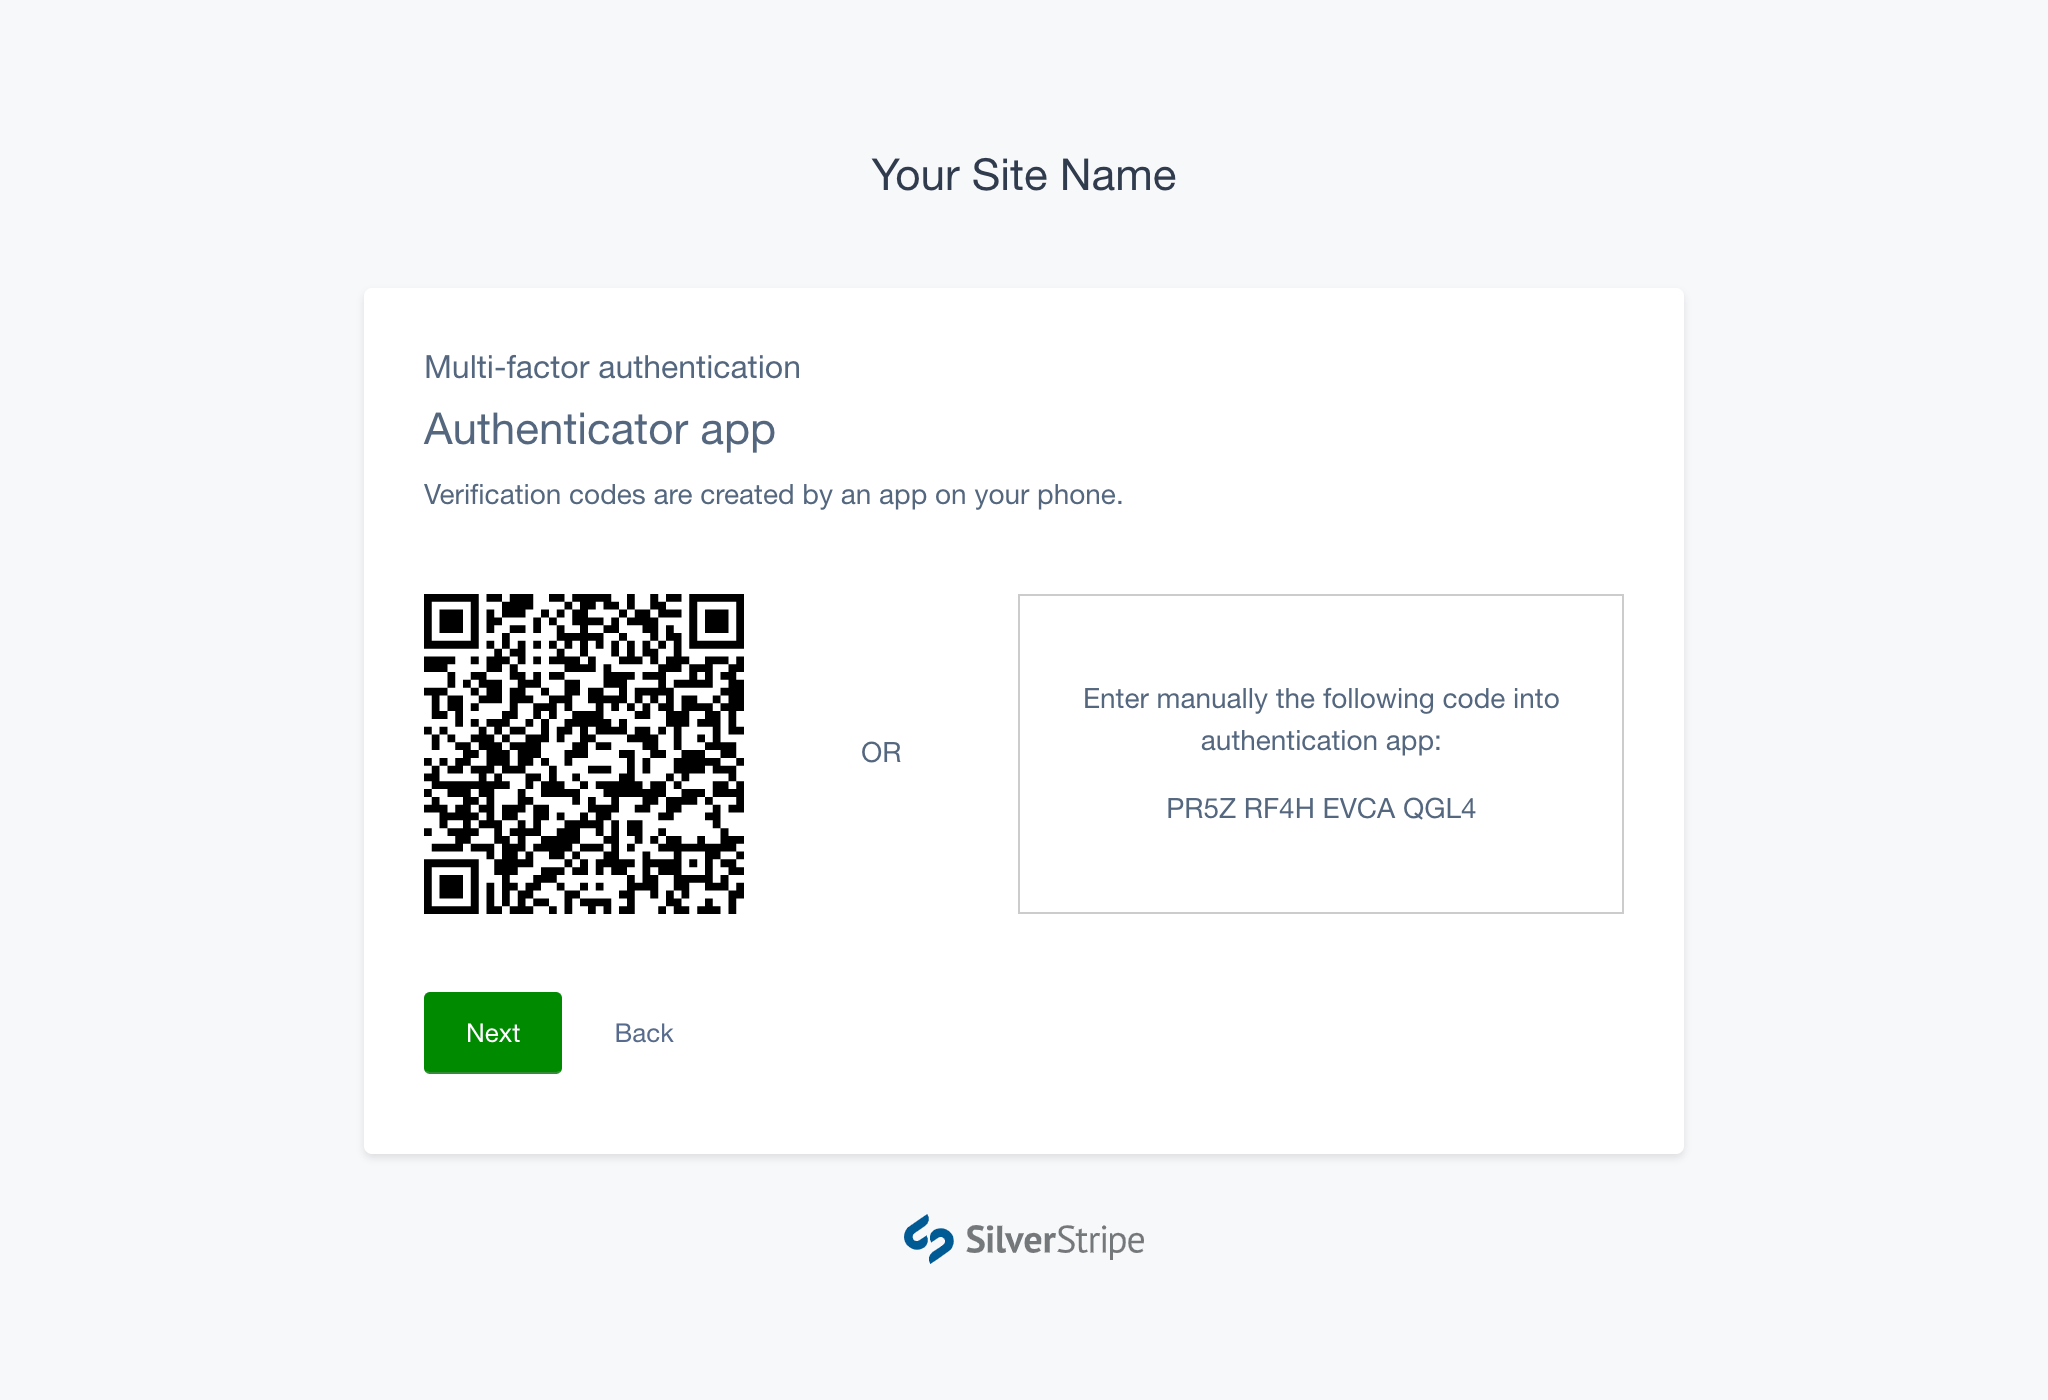
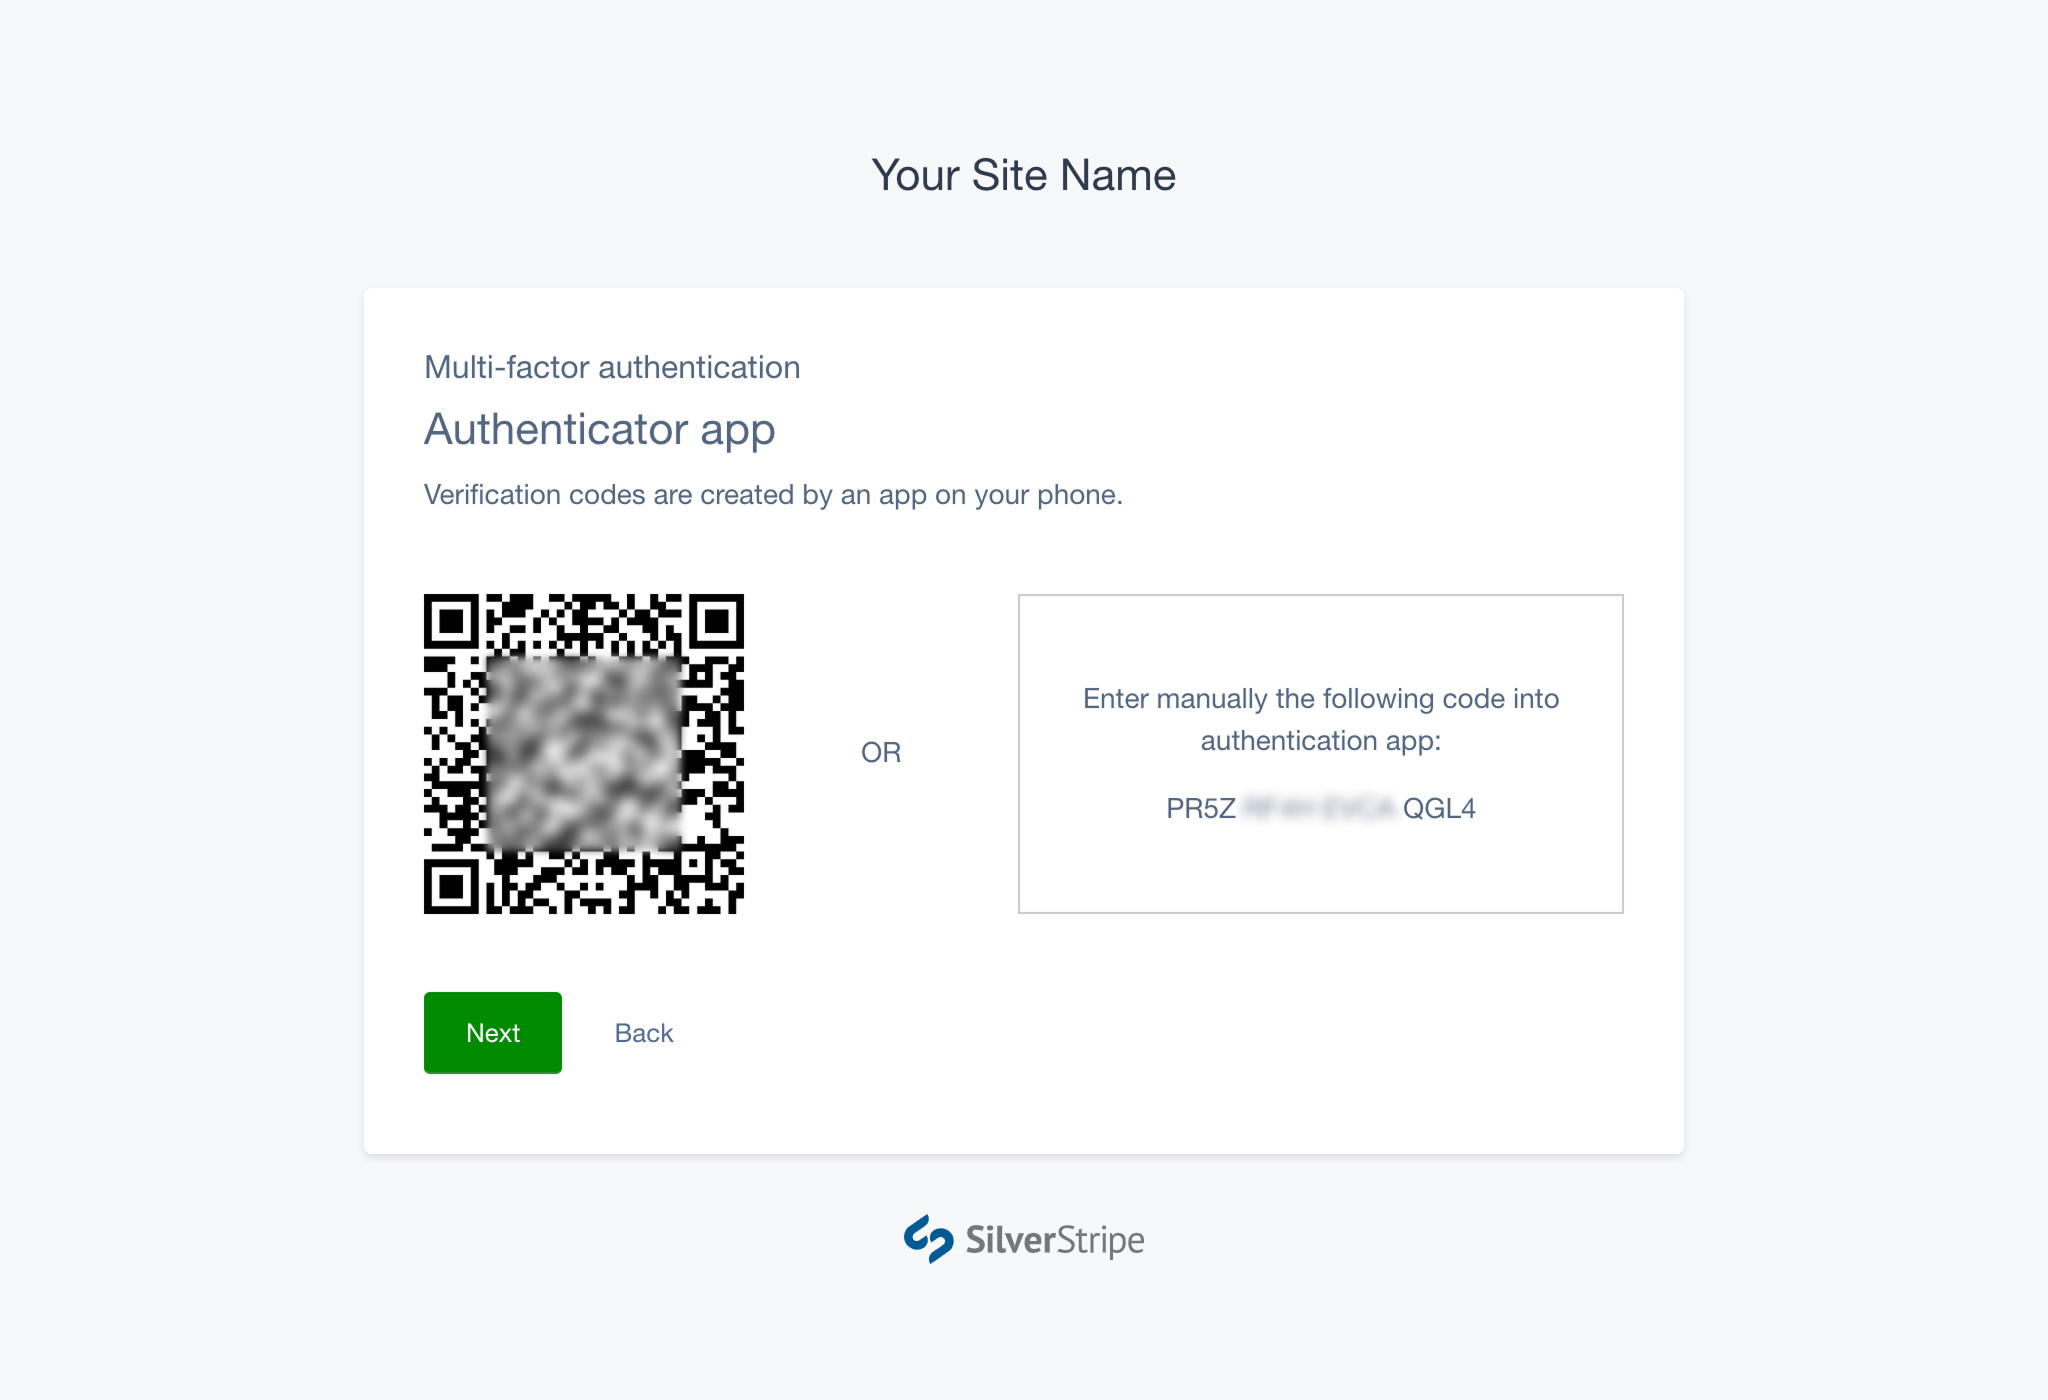
DOC Anonymise example QR code / key
Some users were occasionally scanning the sample QR code instead of
the code displayed in their UI, resulting in a broken TOTP entry
named after... me!

The QR code and secret key are now unusable, and the description
tries to make this as clear as possible.

Changed region(s): [[0.2188, 0.4607, 0.3438, 0.6143], [0.5938, 0.5529, 0.6875, 0.5836]]

diff --git a/docs/en/userguide/01_User_manual/02_Using_authenticator_apps.md b/docs/en/userguide/01_User_manual/02_Using_authenticator_apps.md
@@ -23,8 +23,10 @@ screen, and press Next.
 
 Open your authentication app on your phone, and either:
 
-- Scan the displayed barcode with the app, or
+- Scan the displayed QR code with the app, or
 - Manually enter the displayed secret key into the app.
+
+(The QR code and secret key in the below screenshot are examples, and will not work.)
 
 ![A screenshot of the barcode and secret key shown in the Authenticator app setup flow](../_images/01-02-2-totp-scan.png)
 
